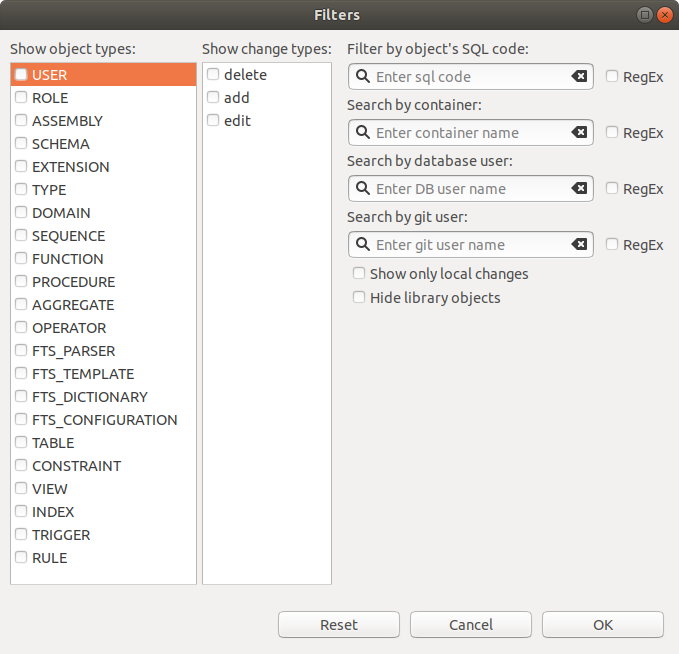
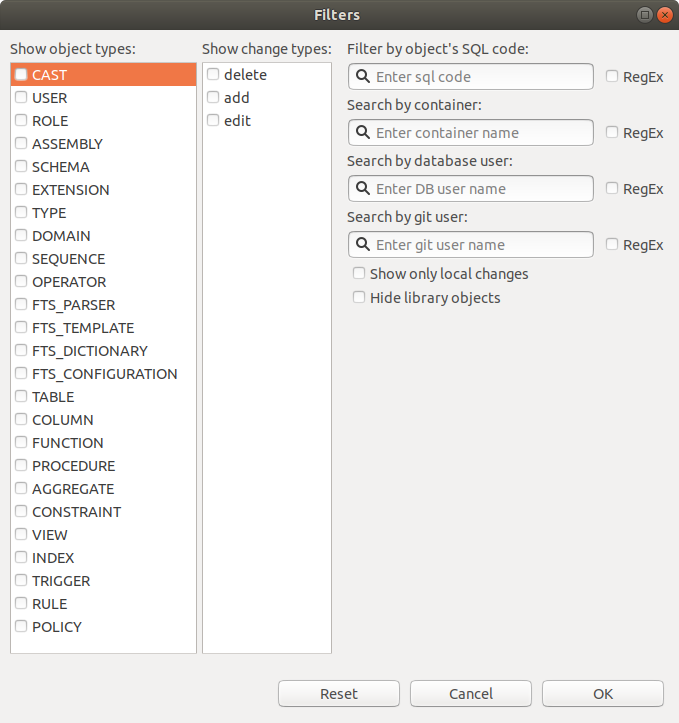
version 5.10.1

diff --git a/docs/conf.py b/docs/conf.py
@@ -51,9 +51,9 @@ copyright = u'2016, pgCodeKeeper'
 # built documents.
 #
 # The short X.Y version.
-version = '5.9'
+version = '5.10'
 # The full version, including alpha/beta/rc tags.
-release = '5.9.12'
+release = '5.10.1'
 
 # The language for content autogenerated by Sphinx. Refer to documentation
 # for a list of supported languages.

diff --git a/docs/white_black_list.rst b/docs/white_black_list.rst
@@ -98,7 +98,7 @@ objectName, dbName, objectType
  **objectType**    тип искомого объекта (опционально)
 =================  =================================================================
 
-.. important:: **objectType** может быть равен одному из следующих значений: CAST, USER, ROLE, ASSEMBLY, SCHEMA, EXTENSION, TYPE, DOMAIN, SEQUENCE, OPERATOR, FTS_PARSER, FTS_TEMPLATE, FTS_DICTIONARY, FTS_CONFIGURATION, TABLE, FUNCTION, PROCEDURE, AGGREGATE, CONSTRAINT, VIEW, INDEX, TRIGGER, RULE.
+.. important:: **objectType** может быть равен одному из следующих значений: CAST, USER, ROLE, ASSEMBLY, SCHEMA, EXTENSION, TYPE, DOMAIN, SEQUENCE, OPERATOR, FTS_PARSER, FTS_TEMPLATE, FTS_DICTIONARY, FTS_CONFIGURATION, TABLE, FUNCTION, PROCEDURE, AGGREGATE, CONSTRAINT, VIEW, INDEX, TRIGGER, RULE, POLICY.
 
 identifier
     | строка-идентификатор без кавычек, состоящая из латинских букв, цифр и подчеркиваний; 
@@ -116,7 +116,7 @@ flag { NONE | REGEX | CONTENT | QUALIFIED }
 ==============  ================================================================
  **REGEX**      воспринимает objectName как регулярное выражение [1]_
  **CONTENT**    применяет правило для совпавшего объекта и всего его содержимого
- **QUALIFIED**  сравнивать objectName с квалифицированным именем объекта
+ **QUALIFIED**  сравнивает objectName с квалифицированным именем объекта
  **NONE**       строгое совпадение без регулярного выражения и без содержимого
 ==============  ================================================================
 

diff --git a/docs/installation.rst b/docs/installation.rst
@@ -5,7 +5,7 @@
 Eclipse Marketplace
 ~~~~~~~~~~~~~~~~~~~
 
-Самый простой путь установить pgCodeKeeper - Eclipse Marketplace : в запущенном экземпляре Eclipse версии 4.2 или выше с установленным Eclipse Marketplace, выбрать **Help > Eclipse Markeplace...**. 
+Самый простой путь установить pgCodeKeeper - Eclipse Marketplace : в запущенном экземпляре Eclipse версии 4.6 или выше с установленным Eclipse Marketplace, выбрать **Help > Eclipse Markeplace...**. 
 
 В поле поиска ввести: pgCodeKeeper.
 
@@ -20,7 +20,7 @@ Eclipse Marketplace
 Сайт обновления
 ~~~~~~~~~~~~~~~
 
-Альтернативный путь получить установки pgCodeKeeper – сайт обновлений: в запущенном экземпляре Eclipse версии 4.2 или выше, выбрать **Help > Install New Software...** Откроется мастер установки плагинов средствами сайта обновлений.
+Альтернативный путь получить установки pgCodeKeeper – сайт обновлений: в запущенном экземпляре Eclipse версии 4.6 или выше, выбрать **Help > Install New Software...** Откроется мастер установки плагинов средствами сайта обновлений.
 
 В поле **Work With** ввести путь к сайту обновлений: http://pgcodekeeper.org/update/.
 

diff --git a/docs/editors.rst b/docs/editors.rst
@@ -37,7 +37,7 @@
 
 Тип объекта - поддерживаются следующие типы объектов: SCHEMA, TYPE, SEQUENCE, TABLE, FUNCTION, PROCEDURE, VIEW, CONSTRAINT, INDEX, TRIGGER.
 
-Для **PostgreSQL** дополнительно поддерживаются следующие типы: CAST, EXTENSION,  DOMAIN, OPERATOR, FTS_PARSER, FTS_TEMPLATE, FTS_DICTIONARY, FTS_CONFIGURATION, AGGREGATE, RULE.
+Для **PostgreSQL** дополнительно поддерживаются следующие типы: CAST, EXTENSION,  DOMAIN, OPERATOR, FTS_PARSER, FTS_TEMPLATE, FTS_DICTIONARY, FTS_CONFIGURATION, AGGREGATE, RULE, POLICY.
 
 Для **MS SQL** дополнительно поддерживаются следующие типы: USER, ROLE, ASSEMBLY.
 
